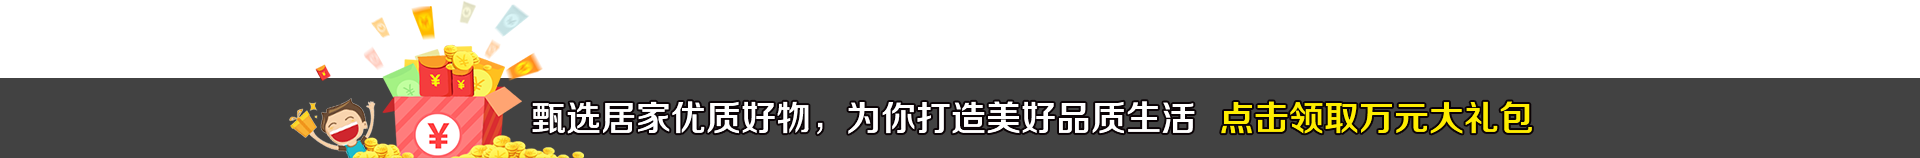
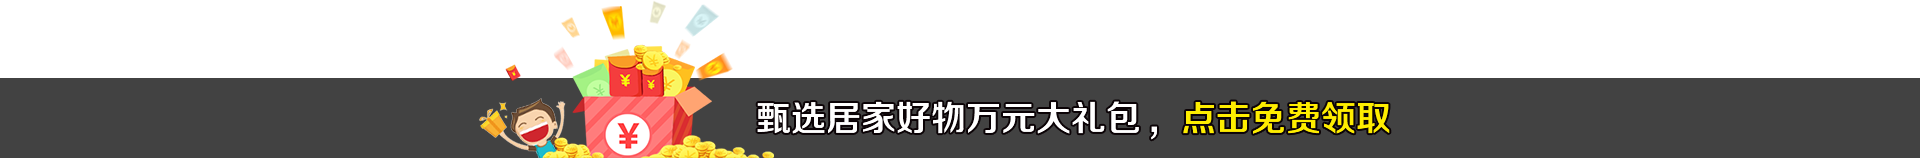
c

Changed region(s): [[0.125, 0.2785, 0.8125, 1.0], [0.1875, 0.0253, 0.375, 0.2532]]

diff --git a/src/ZT-JiaJuYouXuan/pc/index.html b/src/ZT-JiaJuYouXuan/pc/index.html
@@ -16,10 +16,14 @@
 <body style="padding-top:0;">
     @@include("./views/_header.html")
     <div class="banner">
-        <div class="tip"><a href="#" id="J_lqwy-btn-1">领取万元小鱼专属建材大礼包>></a></div>
+        <div class="tip">
+            <span>专注甄选居家优质好物，为你打造美好品质生活</span>
+            <!-- <a href="#" id="J_lqwy-btn-1">领取万元小鱼专属建材大礼包>></a> -->
+        </div>
     </div>
     <!-- 领取万元礼包 -->
     <div class="coms-dialog" id="J_dialog-lqwj">
+        <div class="tit-caption"></div>
         <div class="dialog-form-box">
             <div class="item-cell">
                 <label class="lab">姓名</label>
@@ -41,6 +45,7 @@
     </div>
     <!-- 领取优惠券弹出框 -->
     <div class="coms-dialog" id="J_dialog-lqyhj">
+        <div class="tit-caption"></div>
         <div class="dialog-form-box">
             <div class="item-cell">
                 <label class="lab">姓名</label>
@@ -59,6 +64,7 @@
     </div>
     <!-- 领取优惠券弹出框2 -->
     <div class="coms-dialog" id="J_dialog-yhj">
+        <div class="tit-caption"></div>
         <div class="dialog-form-box">
             <div class="item-cell">
                 <label class="lab">姓名</label>
@@ -72,11 +78,15 @@
         </div>
     </div>
     <!-- 关于我们弹出框 -->
-    <div class="coms-dialog dialog-aboutus" id="J_dialog-aboutus">
+    <div class ="coms-dialog dialog-aboutus" id="J_dialog-aboutus">
+        <div class="tit-caption"></div>
+        <div class="con-txt">
         <p>小鱼居家优选是一档以“专注甄选居家优质好物，为你 打造美好品质生活”为主题的建材优选栏目，旨在帮助 有居家建材选购需求的用户提供特别甄选的优质建材， 还能享受小鱼专属福利折扣和官方媒体监督保障。让用 户了解居家优品与享受物超所值的购物体验。
         </p>
         <p>这里只有优质好物/你喜欢的好物/热销实用爆款/好看 好用不一定很贵的特色居家优品，更多优品等你一起开 启....
         </p>
+        </div>
+
     </div>
     <!-- 领取结果弹出框 -->
     <div class="coms-dialog dialog-result" id="J_dialog-result">
@@ -84,8 +94,10 @@
         </p>
         <span class="btn-close">关闭</span>
     </div>
+
+    <div class="mod-step"></div>
     <div class="mod-1 container">
-        <div class="caption-type-1">往期优质家居好物</div>
+        <div class="caption-type-1">本期优质居家好物</div>
         <div class="mod-1-con clearfix">
             <div class="video-1-box">
                 <p class="tit"></p>
@@ -138,9 +150,11 @@
             </div>
         </div>
     </div>
+
+
     <div class="mod-2">
         <div class="container">
-            <div class="caption-type-1">往期优质家居好物</div>
+            <div class="caption-type-1">往期优质居家好物</div>
             <ul class="mod-2-tab clearfix">
                 <li class="active"><a href="#J_yz-cz">瓷砖</a> /</li>
                 <li><a href="#J_yz-mb">木板</a> /</li>

diff --git a/src/ZT-JiaJuYouXuan/pc/js/index.js b/src/ZT-JiaJuYouXuan/pc/js/index.js
@@ -56,7 +56,7 @@
             event.preventDefault();
             layer.open({
               type: 1,
-              shadeClose: true,
+              shadeClose: false,
               title: false, //不显示标题
               area:"450px",
               content: $('#J_dialog-lqwj'), //捕获的元素，注意：最好该指定的元素要存放在body最外层，否则可能被其它的相对元素所影响
@@ -70,6 +70,8 @@
             event.preventDefault();
             layer.open({
               type: 1,
+             
+              skin: 'layui-layer-c',
               shadeClose: true,
               title: false, //不显示标题
               area:"450px",
@@ -83,6 +85,7 @@
             event.preventDefault();
             layer.open({
               type: 1,
+              skin: 'layui-layer-c',
               shadeClose: true,
               title: false, //不显示标题
               area:"450px",
@@ -97,6 +100,7 @@
             event.preventDefault();
             layer.open({
               type: 1,
+               skin: 'layui-layer-c',
               shadeClose: true,
               title: false, //不显示标题
               area:"450px",
@@ -112,6 +116,7 @@
             event.preventDefault();
             layer.open({
               type: 1,
+              skin: 'layui-layer-c',
               shadeClose: true,
               title: false, //不显示标题
               area:"450px",
@@ -127,6 +132,7 @@
              event.preventDefault();
              layer.open({
               type: 1,
+              skin: 'layui-layer-c',
               shadeClose: true,
               title: false, //不显示标题
               area:"450px",

diff --git a/src/ZT-JiaJuYouXuan/pc/css/style.scss b/src/ZT-JiaJuYouXuan/pc/css/style.scss
@@ -23,6 +23,15 @@
             top: 50%;
             margin-left: -398px;
             margin-top: -174px;
+            span{
+                color:#ca632c;
+                font-size:26px;
+                position: absolute;
+                left: 50%;
+                width:550px;
+                margin-left: -275px;
+                bottom: 90px;
+            }
             a {
                 width: 402px;
                 height: 48px;
@@ -243,7 +252,11 @@
         }
     }
 
-
+    .mod-step{
+        height:90px;
+        margin-top:35px;
+        background:url("../images/h_pic1.jpg") no-repeat top center;
+    }
 
 
     .mod-2 {
@@ -650,16 +663,34 @@
     .coms-dialog{
         display:none;
         padding:15px 0;  
+        .tit-caption{
+            height:153px;
+            position:relative;
+            
+            background:url("../images/dialog_hd.png") no-repeat top center;
+        }
+    }
+    .layui-layer-c{
+        background:none !important;
+        box-shadow:none !important;
+        .layui-layer-close{
+            top:55px  !important;
+        }
     }
     .dialog-aboutus{
-        width:410px;
-        padding:20px;
+        width:450px;
+       
         color:#333333;
         line-height:26px; 
         font-size:16px;
+
+        .con-txt{
+             padding:0 20px 30px;
+            background:#fff;
+        }
         p{
             text-indent: 2em;
-            margin: 20px 0;
+            padding-top: 20px;
         } 
     }
 
@@ -693,6 +724,7 @@
     .dialog-form-box{
         width:410px;
         padding:20px;  
+        background:#fff;
 
         .item-cell{
             position: relative;
